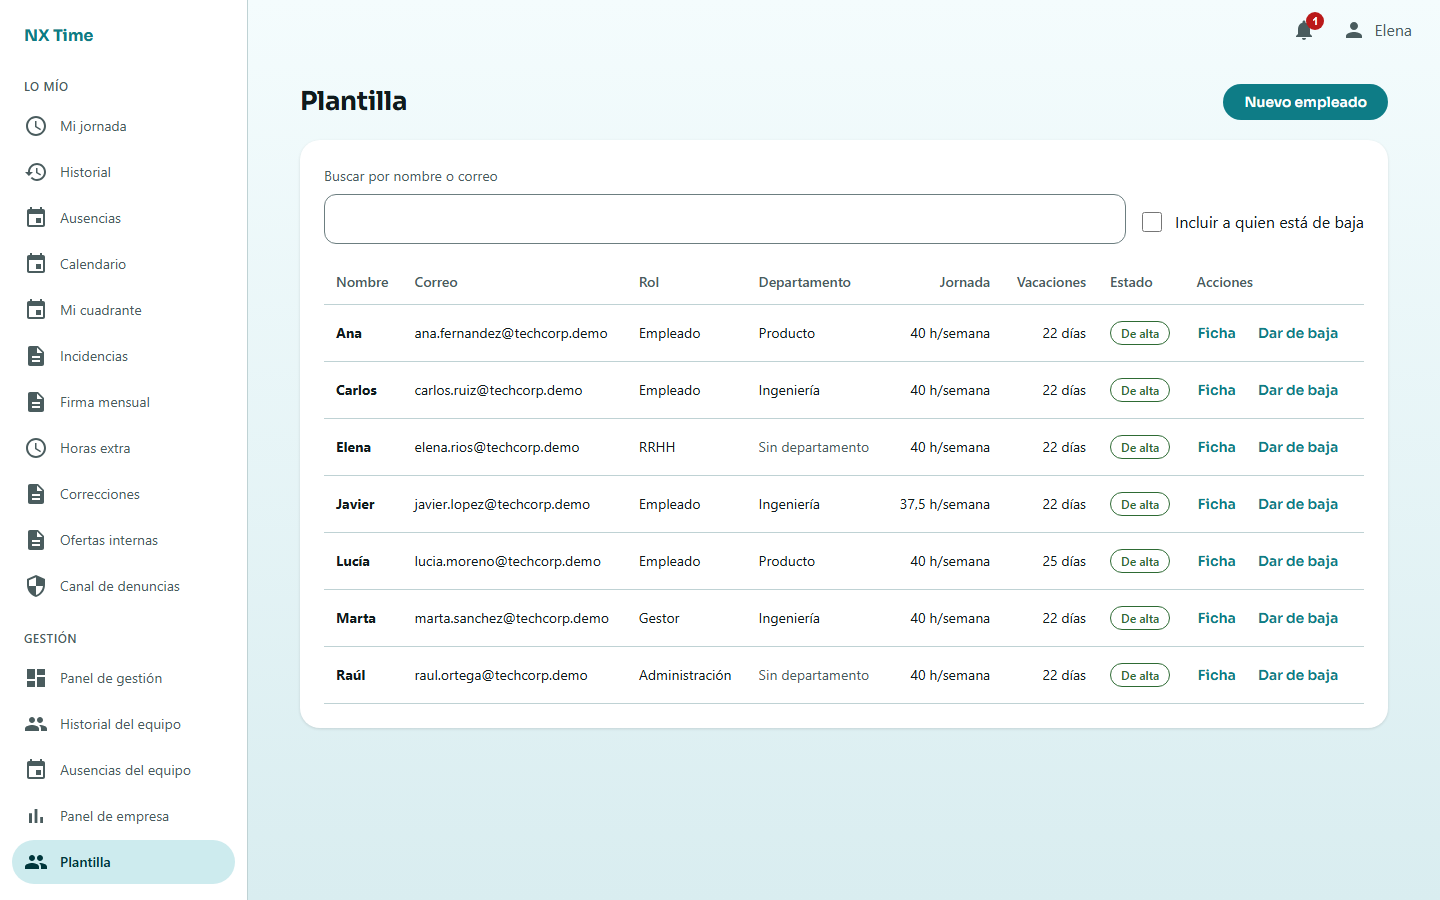
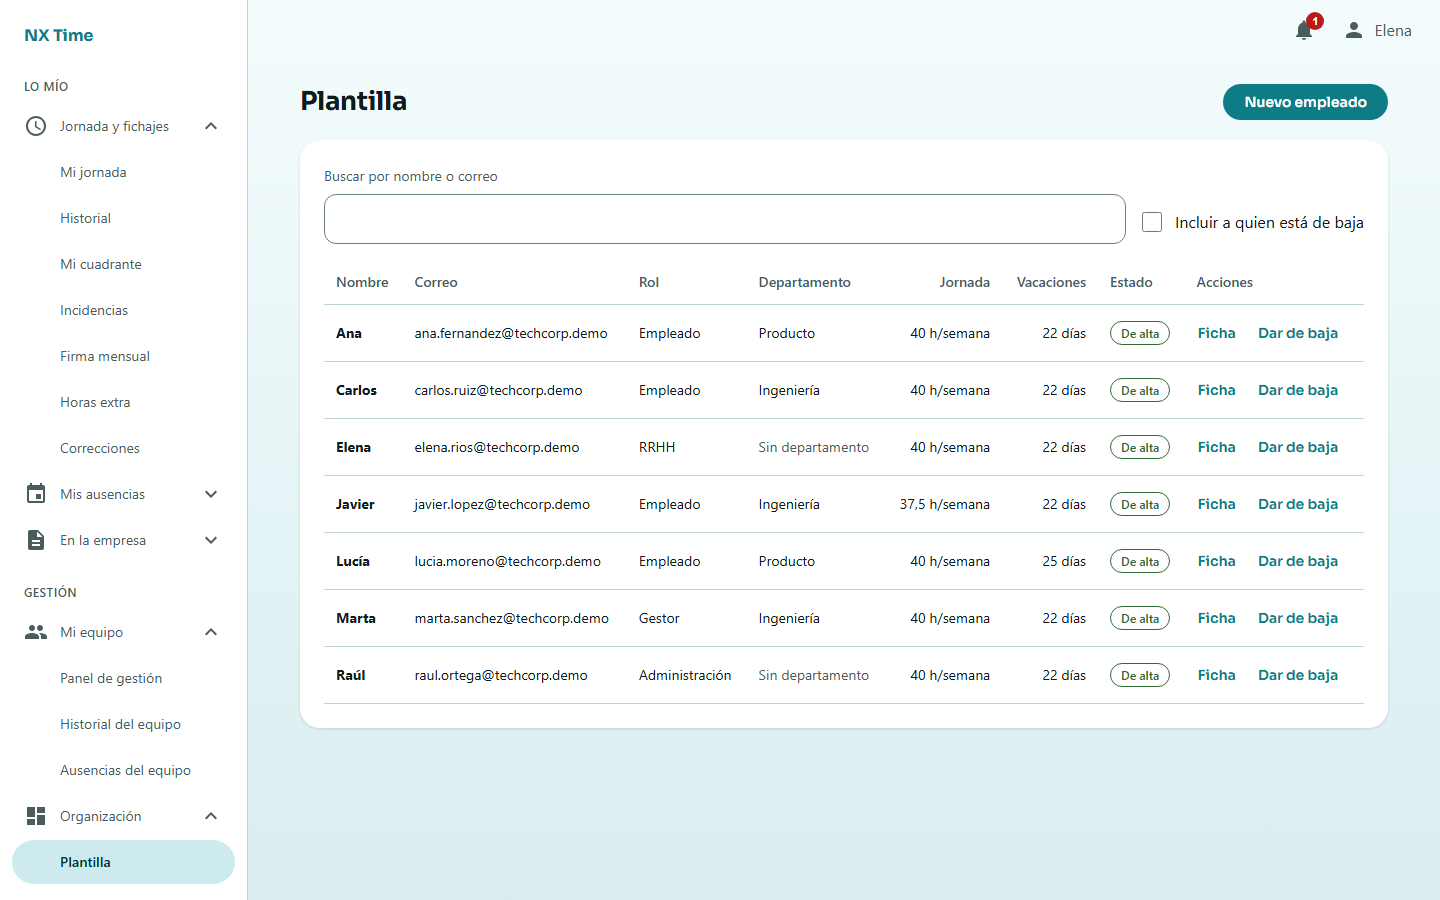
F5: el README, las capturas y el ADR 034 al día
- README: el kiosco, la zona horaria por empresa y la revisión de
  seguridad en «Qué tiene de interesante», los ADR 032-034, y dos capturas
  nuevas de la web: el kiosco en una tablet y el menú por apartados.
- Capturas de la web rehechas con el menú nuevo, sobre una base recién
  creada. capturas.spec abre el apartado de cada página, y la captura de
  la jornada va la última para no dejar una jornada de segundos en la del
  historial del equipo. La del kiosco usa la cámara de prueba de Chromium.
- ADR 034 con todo lo de la revisión: PIN y tarjetas del kiosco, sesiones,
  logs y Sentry, denuncias, LAZY, la caché que no se hizo, la campana y
  las dependencias.

diff --git a/nx-time-frontend-web/e2e/capturas.spec.ts b/nx-time-frontend-web/e2e/capturas.spec.ts
@@ -8,15 +8,23 @@
  * con el backend levantado con `dev,demo`, mejor sobre una base recién creada.
  */
 
-import { devices, expect, test, type Page } from '@playwright/test';
+import { chromium, devices, expect, test, type Page } from '@playwright/test';
 
-import { entrar, paginaLista } from './ayudas';
+import { entrar, irASeccion, paginaLista } from './ayudas';
 
 const DESTINO = '../docs/capturas/web';
 
 async function ir(page: Page, ruta: string): Promise<void> {
-  await page.locator(`nav.nx-lateral a[href="${ruta}"]`).click();
+  // Desde octubre de 2026 el menú va por apartados plegables: se abre el de
+  // la página, como haría una persona, y el lateral se deja arriba del todo.
+  const lateral = page.locator('nav.nx-lateral');
+  const enlace = lateral.locator(`a[href="${ruta}"]`);
+  if (!(await enlace.isVisible())) {
+    await lateral.locator('.nx-subgrupo').filter({ has: page.locator(`a[href="${ruta}"]`) }).locator(':scope > button').click();
+  }
+  await enlace.click();
   await paginaLista(page, ruta);
+  await lateral.evaluate((nav) => nav.scrollTo(0, 0));
 }
 
 async function capturar(page: Page, nombre: string): Promise<void> {
@@ -47,22 +55,6 @@ test.describe('móvil', () => {
 
 test.describe('escritorio', () => {
   test.use({ viewport: { width: 1440, height: 900 } });
-
-  test('empleado: la jornada en marcha', async ({ page }) => {
-    await entrar(page, 'javier.lopez@techcorp.demo');
-    const entrada = page.getByRole('button', { name: 'Fichar entrada' });
-    const salida = page.getByRole('button', { name: 'Fichar salida' });
-    await expect(entrada.or(salida)).toBeVisible();
-    if (await entrada.isVisible()) await entrada.click();
-    await expect(page.getByText('Trabajando')).toBeVisible();
-    await page.waitForTimeout(1500);
-    await capturar(page, 'web-01-mi-jornada');
-
-    // Se deja como estaba: sin jornada abierta.
-    await salida.click();
-    await page.getByRole('dialog').getByRole('button', { name: 'Terminar' }).click();
-    await expect(entrada).toBeVisible();
-  });
 
   test('RRHH: historial del equipo, plantilla y analítica', async ({ page }) => {
     await entrar(page, 'elena.rios@techcorp.demo');
@@ -100,5 +92,83 @@ test.describe('escritorio', () => {
     await page.evaluate(() => (document.activeElement as HTMLElement | null)?.blur());
     await dialogo.locator('.nx-dialogo__contenido').evaluate((el) => el.scrollTo(0, 0));
     await capturar(page, 'web-05-editor-cuadrantes');
+  });
+
+  // La última del escritorio: deja una jornada de segundos en el historial,
+  // que no tiene que salir en la captura del historial del equipo.
+  test('empleado: la jornada en marcha', async ({ page }) => {
+    await entrar(page, 'javier.lopez@techcorp.demo');
+    const entrada = page.getByRole('button', { name: 'Fichar entrada' });
+    const salida = page.getByRole('button', { name: 'Fichar salida' });
+    await expect(entrada.or(salida)).toBeVisible();
+    if (await entrada.isVisible()) await entrada.click();
+    await expect(page.getByText('Trabajando')).toBeVisible();
+    await page.waitForTimeout(1500);
+    await capturar(page, 'web-01-mi-jornada');
+
+    // Se deja como estaba: sin jornada abierta.
+    await salida.click();
+    await page.getByRole('dialog').getByRole('button', { name: 'Terminar' }).click();
+    await expect(entrada).toBeVisible();
+  });
+
+  test('ADMIN: el menú por apartados plegables', async ({ page }) => {
+    await entrar(page, 'raul.ortega@techcorp.demo');
+    // La página abierta despliega su apartado; se abre otro para que se vea
+    // cómo queda con dos abiertos y el resto plegado.
+    await irASeccion(page, 'Plantilla');
+    await paginaLista(page, '/plantilla');
+    const lateral = page.locator('nav.nx-lateral');
+    await lateral.getByRole('button', { name: 'Informes y control' }).click();
+    // «Jornada y fichajes» se abrió al entrar (en /fichar): se pliega, que es
+    // como lo dejaría quien ya no está en esa página.
+    await lateral.getByRole('button', { name: 'Jornada y fichajes' }).click();
+    await lateral.evaluate((nav) => nav.scrollTo(0, 0));
+    await page.mouse.move(1400, 880);
+    await capturar(page, 'web-08-menu-por-apartados');
+  });
+});
+
+test.describe('tablet', () => {
+  test('el kiosco de fichaje en una tablet', async ({ browser }) => {
+    // Un Chromium aparte con una cámara de prueba (el patrón que se mueve), que
+    // es lo que ve una tablet de verdad mientras espera una tarjeta.
+    const conCamara = await chromium.launch({
+      args: ['--use-fake-ui-for-media-stream', '--use-fake-device-for-media-stream'],
+    });
+    const tablet = await (
+      await conCamara.newContext({
+        baseURL: 'http://localhost:5173',
+        viewport: { width: 1180, height: 820 },
+        hasTouch: true,
+        permissions: ['camera'],
+      })
+    ).newPage();
+    await tablet.goto('/kiosco');
+    const codigo = (await tablet.locator('.nx-kiosco__codigo').textContent())?.replace(/\s/g, '') ?? '';
+    const admin = await (await browser.newContext()).newPage();
+    await entrar(admin, 'raul.ortega@techcorp.demo');
+    await irASeccion(admin, 'Ajustes de la empresa');
+    await admin.getByLabel('Código de la tablet').fill(codigo);
+    await admin.getByLabel('Nombre del kiosco').fill('Entrada del almacén');
+    await admin.getByRole('button', { name: 'Dar de alta' }).click();
+    await expect(tablet.getByText('Entrada del almacén')).toBeVisible({ timeout: 15_000 });
+    await expect(tablet.getByText('El servidor está despertando')).toBeHidden({ timeout: 15_000 });
+    await tablet.waitForTimeout(1500);
+    await capturar(tablet, 'web-09-kiosco');
+
+    // Se deja como estaba: el kiosco, revocado.
+    await admin.reload();
+    // Todos los que se llamen así: una captura que falló a medias deja el suyo.
+    const activos = admin
+      .getByRole('listitem')
+      .filter({ hasText: 'Entrada del almacén' })
+      .getByRole('button', { name: 'Revocar' });
+    while ((await activos.count()) > 0) {
+      await activos.first().click();
+      await admin.getByRole('dialog').getByRole('button', { name: 'Revocar' }).click();
+      await expect(admin.getByRole('dialog')).toBeHidden();
+    }
+    await conCamara.close();
   });
 });

diff --git a/README.md b/README.md
@@ -122,6 +122,32 @@ departamento y RRHH la empresa, y lo decide el servicio, no la authority. El CSV
 sale con punto y coma, coma decimal, BOM y protección contra fórmulas
 ([ADR](docs/adr/026-analitica-en-dias-y-por-alcance.md)).
 
+**Un kiosco que solo sabe fichar.** Una tablet en la entrada de un almacén o una
+obra, para quien no tiene el móvil a mano. El kiosco es un dispositivo, no una
+persona: su token solo abre `/kiosco/**` y un JWT de persona no abre el kiosco.
+Se empareja tecleando en la web el código que enseña, sin escribir nada en la
+tablet. Cada uno se identifica con una tarjeta QR **firmada por el servidor**
+(que no guarda ningún secreto: regenerarla invalida la anterior) o con su nombre
+y un PIN que él elige. El PIN se bloquea tras cinco fallos, y al tercer bloqueo
+se anula y se avisa a quien gestiona los kioscos. Los fichajes entran en la
+misma cadena de auditoría, diciendo en qué kiosco se hicieron
+([ADR](docs/adr/033-fichaje-en-kiosco.md)).
+
+**La zona horaria es de la empresa, no del servidor.** Los fichajes son
+instantes (`Instant`), pero «qué día es» depende de dónde está la empresa: una
+de Canarias no cierra el día a la misma hora que una de Madrid. Cada empresa
+tiene su zona, los días se cuentan al leer, y las tareas nocturnas corren zona
+por zona ([ADR](docs/adr/032-zona-horaria-por-empresa.md)).
+
+**Una revisión de seguridad con lo que se hace desde fuera.** Usar la API como
+está pensada, pero a escala: el registro público servía para mandar altas por
+correo a cualquiera (ahora se confirma el correo antes de entrar), un PNG de
+pocos bytes que dice medir 50.000 × 50.000 agotaba la memoria (ahora se leen las
+dimensiones antes de decodificar), el PIN del kiosco se acababa adivinando con
+el tiempo, y el tiempo de respuesta decía qué correos tienen cuenta. Cada punto
+lleva su test y los topes nuevos, su porqué
+([ADR](docs/adr/034-endurecimiento-de-octubre.md)).
+
 **Canal de denuncias con anonimato estructural.** El canal interno que obliga la
 Ley 2/2023, con sus plazos (acuse en 7 días, respuesta en 3 meses) calculados al
 leer. Lo interesante no es el formulario: si la denuncia es anónima, **el sistema
@@ -201,7 +227,12 @@ solo tiene sentido con pantalla grande y teclado:
 | ![Mi jornada en la web](docs/capturas/web/web-01-mi-jornada.png) | ![Analítica](docs/capturas/web/web-04-analitica.png) | ![Editor de cuadrantes](docs/capturas/web/web-05-editor-cuadrantes.png) |
 | Lo mismo que en la app, con las horas de la semana contra la jornada esperada | Absentismo y puntualidad por mes, trimestre o año: solo en la web | Plantillas semanales con tramos, turno partido o de noche: solo en la web |
 
-Las **28 capturas de la app y las 7 de la web**, con la explicación de qué
+| Kiosco de fichaje | Menú por apartados |
+|---|---|
+| ![Kiosco en una tablet](docs/capturas/web/web-09-kiosco.png) | ![Menú por apartados](docs/capturas/web/web-08-menu-por-apartados.png) |
+| Una tablet en la entrada: tarjeta QR por la cámara, o nombre y PIN | Siete apartados plegables en vez de 28 entradas seguidas |
+
+Las **28 capturas de la app y las 9 de la web**, con la explicación de qué
 demuestra cada una, están en [`docs/capturas/`](docs/capturas/). Son reales,
 contra la API, con los datos que siembra `DemoDataSeeder`; las de la web se
 repiten con `npm run capturas`.
@@ -556,6 +587,9 @@ Las decisiones no obvias están justificadas en [`docs/adr/`](docs/adr/):
 29. [La web alcanza a la app: un armazón común y la URL como destino del aviso](docs/adr/029-la-web-alcanza-a-la-app.md)
 30. [La sesión de la web va en una cookie, con dominio propio y CSRF de doble envío](docs/adr/030-la-sesion-web-en-cookie.md)
 31. [Push en la web: service worker propio, SDK solo para el token y web instalable](docs/adr/031-push-en-la-web.md)
+32. [La zona horaria es de cada empresa, y los días se cuentan al leer](docs/adr/032-zona-horaria-por-empresa.md)
+33. [Fichaje en kiosco: un dispositivo que solo ficha, tarjeta QR firmada y PIN por persona](docs/adr/033-fichaje-en-kiosco.md)
+34. [Endurecimiento de octubre: confirmar el correo al registrarse y topes donde no los había](docs/adr/034-endurecimiento-de-octubre.md)
 
 ---
 

diff --git a/docs/adr/034-endurecimiento-de-octubre.md b/docs/adr/034-endurecimiento-de-octubre.md
@@ -75,6 +75,59 @@ confirmar: es más estricto y más fácil de explicar.
 | Dispositivos push por persona | 10, se quedan los usados más recientemente | Más navegadores de los que nadie usa; un token viejo no recibe |
 | Foto de perfil | 40 megapíxeles, leídos de la cabecera | Más que cualquier móvil; el fichero ya tenía 5 MB, la imagen no |
 | Heap de la JVM | 75 % de la memoria del contenedor | Por defecto era el 25 %: 128 MB en Render |
+| PIN del kiosco | 5 fallos bloquean 15 min; al 3.er bloqueo se anula (V38) | Contra un PIN se prueban 15 como mucho, no ~480 al día |
+| Login, por cuenta | Desde el 5.º fallo seguido, la espera se dobla hasta 15 min | ~100 intentos al día como mucho, sin bloqueo duro |
+
+### El PIN del kiosco y las tarjetas
+
+- Los bloqueos del PIN se cuentan (`usuarios.kiosco_pin_bloqueos`) y **no
+  vuelven a cero al acertar**: si lo hicieran, quien prueba tendría 14
+  intentos cada vez que el dueño ficha bien. Vuelven a cero al elegir otro
+  PIN. Al anularlo se avisa a su dueño (al perfil) y a quien tiene
+  `empresa:configurar` (a los ajustes de la empresa). El PIN sigue siendo de
+  4 a 6 cifras: con el tope, 4 bastan, y exigir 6 invalidaba los que ya hay.
+- Las tarjetas de toda la plantilla (con una se ficha por su dueño) pasan a
+  `POST /api/v1/empresa/kioscos/tarjetas`, solo con `empresa:configurar`, y
+  queda en el log quién las saca. Antes era un GET que escribía en la base y
+  lo podía hacer cualquiera con `empleado:gestionar`.
+
+### Las sesiones
+
+- El login espera más tras cada fallo seguido contra una cuenta, en vez de un
+  bloqueo duro de un día que cualquiera podría usar para dejar a otro sin
+  entrar. Va en memoria, como el límite que ya había.
+- **Cambiar la contraseña cierra las demás sesiones**, como ya hacía elegirla
+  con un código. Para no cerrar la propia, el access token lleva su sesión
+  (claim `sid`, la familia del refresh, ADR 019) y se revocan todas menos esa.
+
+### Lo que sale de la aplicación
+
+- Los logs escriben el **id** de quien hace algo, no su correo, y
+  `LimpiezaDeSentry` tapa cualquier correo que se cuele (una excepción de la
+  base, del servidor de correo) en las migas, el mensaje o las excepciones.
+- El código de seguimiento de una denuncia va en el **cuerpo**, no en la URL:
+  es la credencial de una denuncia anónima, y una URL acaba en los logs de
+  acceso, el historial del navegador y Sentry. Las rutas viejas quedan,
+  obsoletas, para las apps de antes de la 1.10.
+
+### Rendimiento y la cuota de Neon
+
+- `TimeEntry.registroOriginal` y `Kiosk.creadoPor` pasan a `LAZY`: el
+  historial del equipo baja de 9 a 5 consultas por página
+  (`ConsultasDelHistorialIT` lo fija). `TimeEntry.kiosco` sigue `EAGER`
+  porque los controladores convierten el fichaje en respuesta fuera de la
+  transacción (`open-in-view` apagado); lo caro era lo que el kiosco
+  arrastraba.
+- **No** se cachea el usuario en `JwtAuthenticationFilter`, aunque estaba en
+  el plan. Hay servicios que guardan la entidad del principal (cambiar la
+  contraseña, editar el perfil); con un `User` cacheado y desfasado, la
+  siguiente escritura daría un error de `@Version`. Una consulta por petición
+  no compensa ese riesgo.
+- La campana de la web pregunta cada cinco minutos y no cada minuto: con una
+  pestaña a la vista, Neon no llegaba a suspender nunca la base. Un push y
+  volver a la pestaña la refrescan al momento.
+- Dependencias al día dentro de sus versiones mayores (Spring Boot 3.5.16,
+  Retrofit 2.12, bucket4j 8.21 con su artefacto nuevo, etc.).
 
 ### Lo que se apaga o se escapa
 

diff --git a/docs/capturas/README.md b/docs/capturas/README.md
@@ -90,3 +90,5 @@ repiten con un comando**: `npm run capturas` en `nx-time-frontend-web/`
 | `web-05-editor-cuadrantes.png` | El editor de plantillas de cuadrante, también solo de la web: un turno partido con dos tramos por día (sin guardar: la demo no siembra cuadrantes) |
 | `web-06-movil.png` | La misma jornada en un móvil: barra inferior con «Más» en vez del menú lateral |
 | `web-07-movil-oscuro.png` | En tema oscuro, que sigue al del sistema |
+| `web-08-menu-por-apartados.png` | El menú lateral de un ADMIN por apartados plegables (octubre de 2026): siete apartados en vez de 28 entradas seguidas, con el de la página abierta desplegado |
+| `web-09-kiosco.png` | El kiosco de fichaje en una tablet (ADR 033): espera una tarjeta QR por la cámara, o que alguien busque su nombre y teclee su PIN. La imagen es la cámara de prueba de Chromium |
